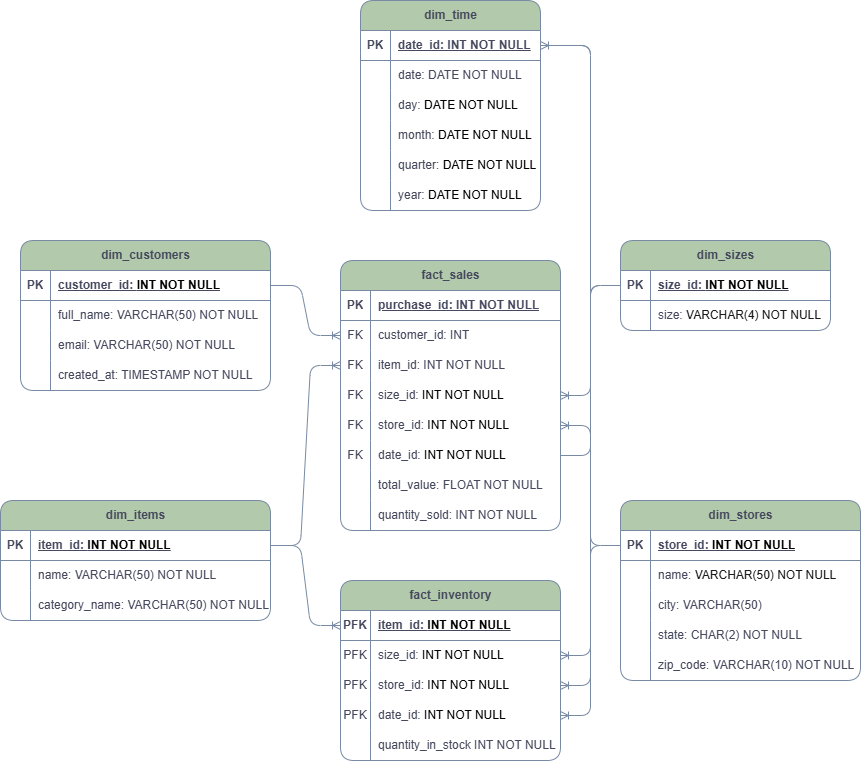
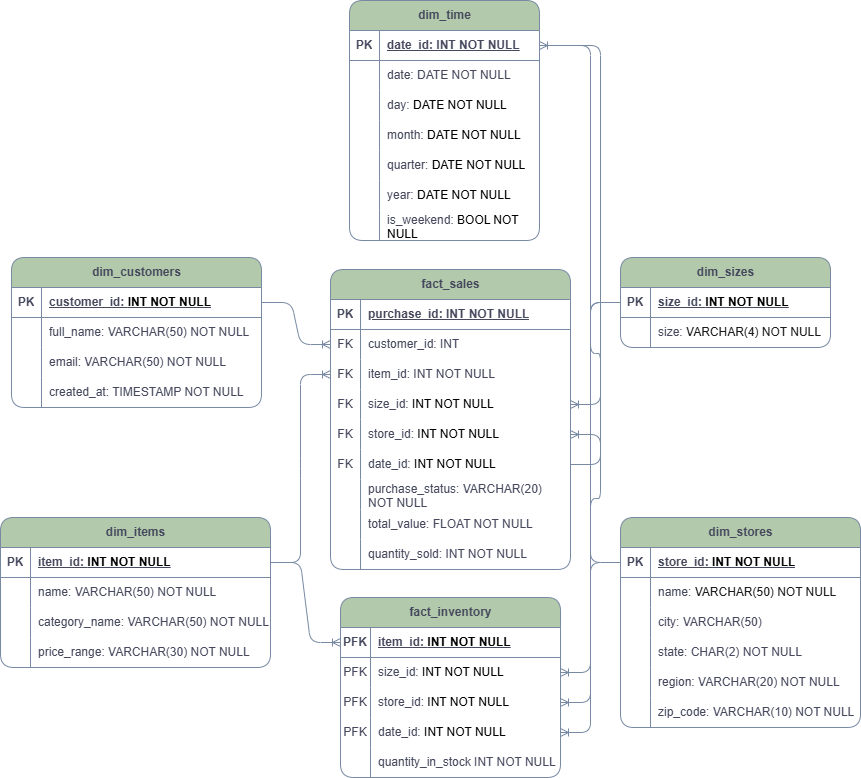
adding region, is_wekend, price_range and purchase status

diff --git a/dags/create_ecommerce_tables_olap.py b/dags/create_ecommerce_tables_olap.py
@@ -1,7 +1,7 @@
 from airflow import DAG
 from airflow.operators.python import PythonOperator
 from datetime import datetime
-from sqlalchemy import create_engine, Column, Integer, String, ForeignKey, Float, TIMESTAMP, Date, CHAR, PrimaryKeyConstraint, CheckConstraint
+from sqlalchemy import create_engine, Column, Integer, String, ForeignKey, Float, TIMESTAMP, Date, CHAR, PrimaryKeyConstraint, CheckConstraint, Boolean
 from sqlalchemy.ext.declarative import declarative_base
 from sqlalchemy.orm import relationship
 
@@ -17,12 +17,14 @@ class FactSales(Base):
     size_id = Column(Integer, ForeignKey('dim_sizes.size_id'), nullable=False)
     store_id = Column(Integer, ForeignKey('dim_stores.store_id'), nullable=False)
     date_id = Column(Integer, ForeignKey('dim_time.date_id'), nullable=False)
+    purchase_status = Column(String(20),nullable=False)
     total_value = Column(Float, nullable=False)
     quantity_sold = Column(Integer, nullable=False)
     customer = relationship("DimCustomers", back_populates="sales")
     __table_args__ = (
         CheckConstraint('total_value >= 0', name='check_total_value_not_negative'),
         CheckConstraint('quantity_sold >= 0', name='check_quantity_sold_not_negative'),
+        CheckConstraint("purchase_status IN ('Pending', 'Sent', 'Delivered', 'Canceled')", name='check_valid_status'),
     )
 
 class FactInventory(Base):
@@ -45,6 +47,7 @@ class DimTime(Base):
     month = Column(Integer, nullable=False) 
     quarter = Column(Integer, nullable=False) 
     year = Column(Integer, nullable=False) 
+    is_wekend = Column(Boolean, nullable=False)
 
 class DimSizes(Base):
     __tablename__ = "dim_sizes"
@@ -57,10 +60,12 @@ class DimStores(Base):
     name = Column(String(50), nullable=False)
     city = Column(String(50))
     state = Column(CHAR(2), nullable=False)
+    region = Column(String(20), nullable=False)
     zip_code = Column(String(10), nullable=False)
     __table_args__ = (
         CheckConstraint("state IN ('AC', 'AL', 'AP', 'AM', 'BA', 'CE', 'DF', 'ES', 'GO', 'MA', 'MT', 'MS', 'MG', 'PA', 'PB', 'PR', 'PE', 'PI', 'RJ', 'RN', 'RS', 'RO', 'RR', 'SC', 'SP', 'SE', 'TO')", name="check_valid_state"),
-        CheckConstraint("zip_code ~ '^[0-9]{5}(-?[0-9]{3})?$'", name="check_zip_code_format")
+        CheckConstraint("zip_code ~ '^[0-9]{5}(-?[0-9]{3})?$'", name="check_zip_code_format"),
+        CheckConstraint("region  IN ('North', 'Northeast', 'Midwest', 'Southeast','South')", name="check_region")
     )
 
 class DimItems(Base):
@@ -68,6 +73,15 @@ class DimItems(Base):
     item_id = Column(Integer, primary_key=True, nullable=False)
     name = Column(String(50), nullable=True)
     category_name = Column(String(50), nullable=False)
+    price_range = Column(String(30),nullable=False)
+    __table_args__ = (
+        CheckConstraint("price_range IN ('Budget','Affordable','Mid-range','Premium','Luxury')", name="check_valid_state"),
+    )
+    #     💸 Budget (e.g. $0–$50)
+    # 💰 Affordable (e.g. $51–$150)
+    # 💼 Mid-range (e.g. $151–$300)
+    # 💎 Premium (e.g. $301–$600)
+    # 👑 Luxury (e.g. $600+)
 
 class DimCustomers(Base):
     __tablename__ = "dim_customers"
@@ -76,7 +90,6 @@ class DimCustomers(Base):
     email = Column(String(50), nullable=False)
     created_at = Column(TIMESTAMP, nullable=False)
     sales = relationship("FactSales", back_populates="customer")
-
 def create_tables():
     Base.metadata.drop_all(engine)
     Base.metadata.create_all(engine)
